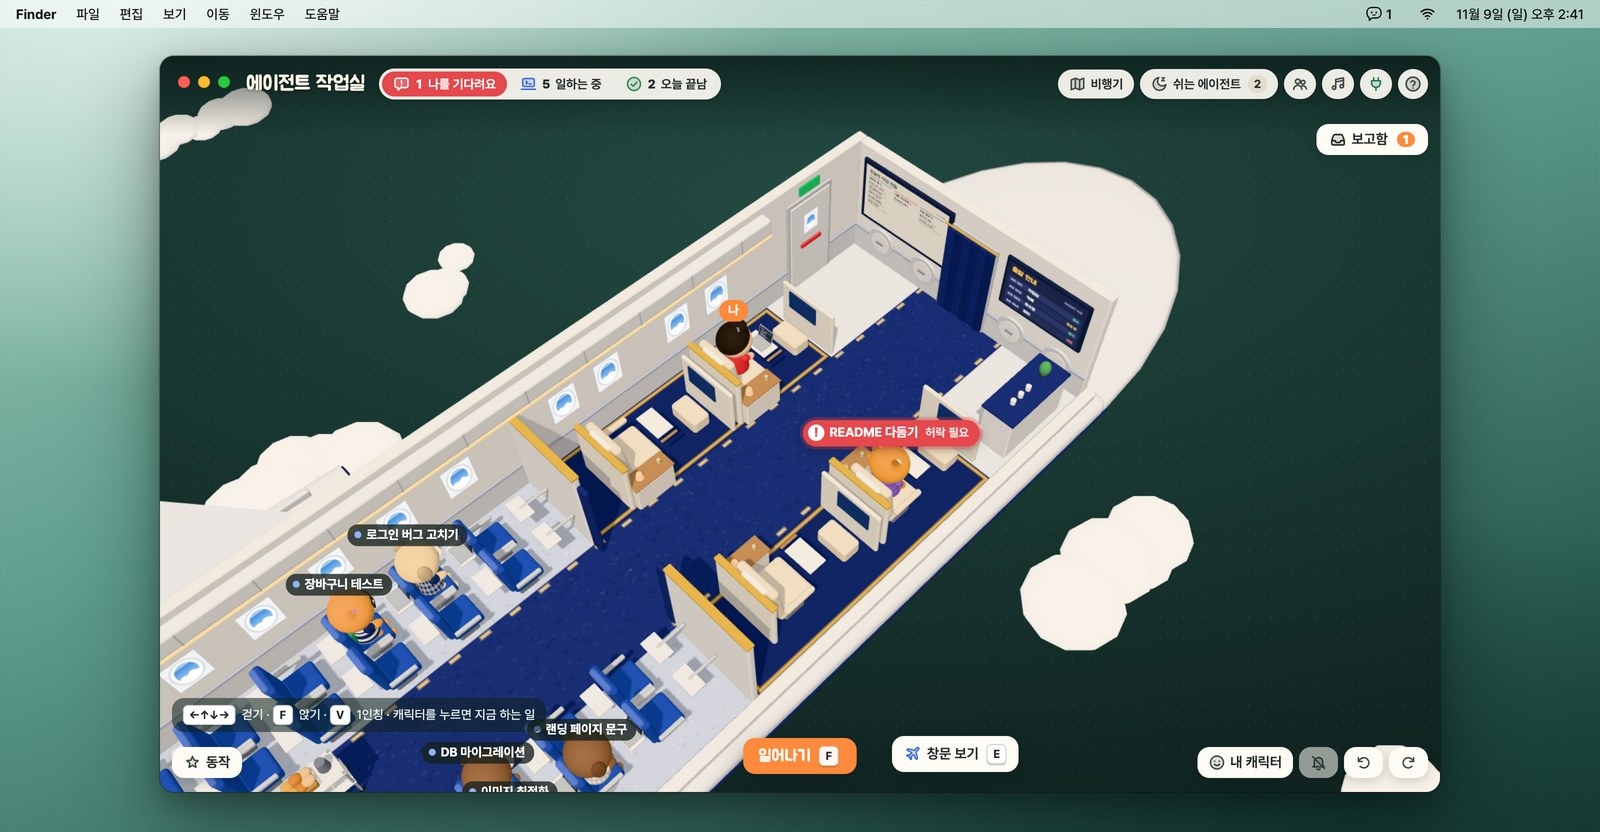
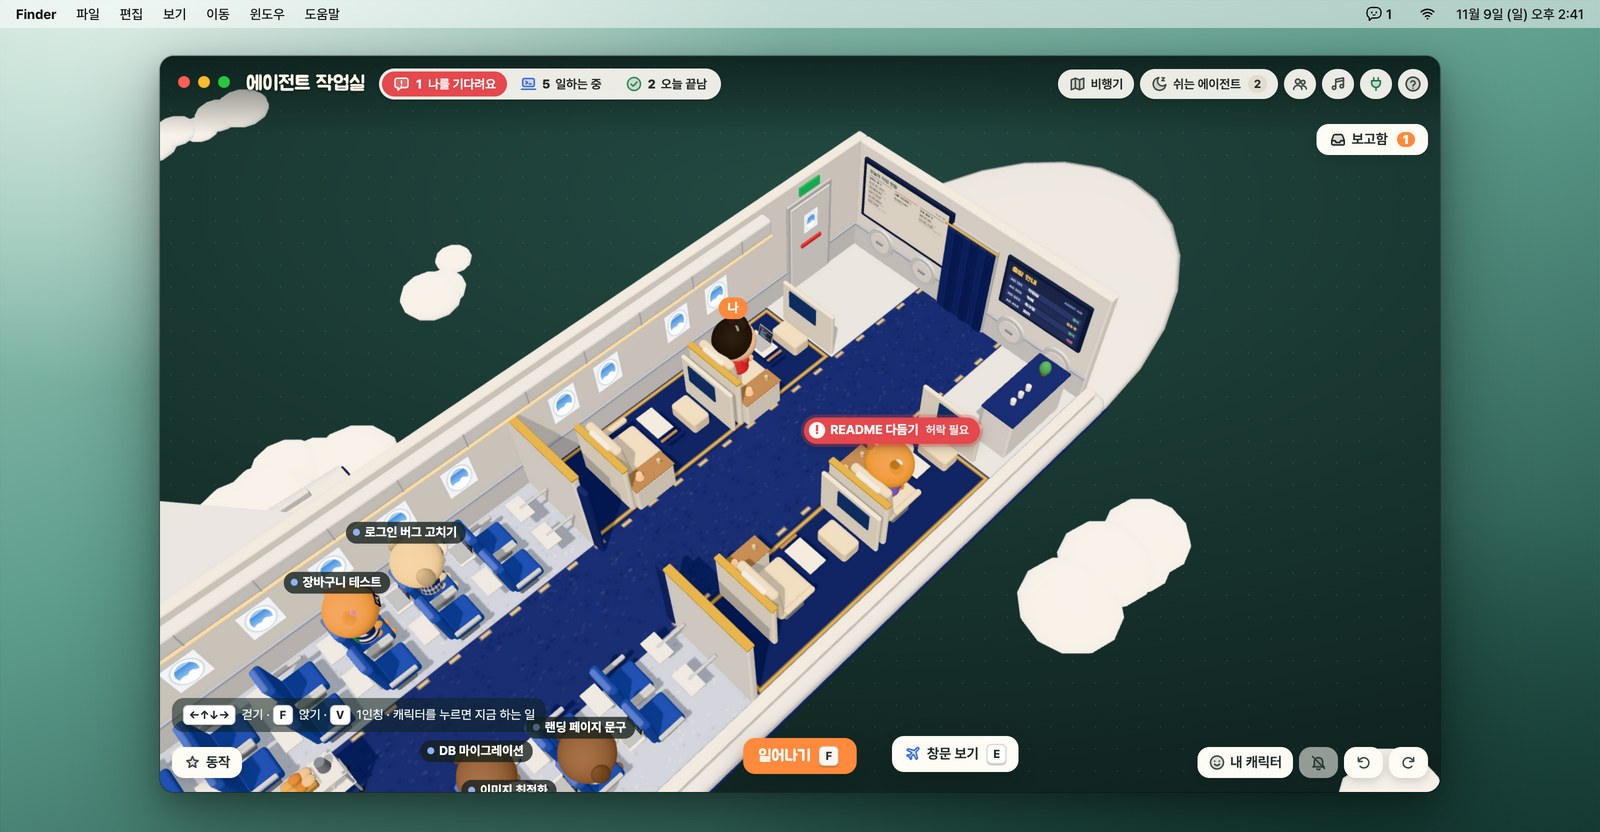
에이전트 작업실 0.4.3: 캐릭터를 2등신 비율로
- 머리를 1.22배로 키우고(머리카락, 귀, 모자, 안경 포함) 몸통, 팔, 몸에 붙는 소품은 줄임
- 눈을 1.18배로 키우고 사이를 넓힘, 볼터치는 조금 아래로
- 위에서 내려다보는 화면에서 고개를 더 듦 (커진 정수리가 얼굴을 가리지 않게)
- 이름표 높이와 얼굴 그림(face.js) 찍는 거리를 커진 머리에 맞춤
- README 그림 갱신

diff --git a/shared/js/avatar.js b/shared/js/avatar.js
@@ -9,6 +9,10 @@ import { drawMark } from './brand.js';
 const PI = Math.PI;
 export const HEAD_Y = 0.86;
 const HEAD_R = 0.3;
+// 2등신 비율: 머리는 키우고 몸은 줄인다. 머리에 붙는 것(머리카락, 귀, 모자, 안경)은 머리와 함께 커진다
+const HEAD_K = 1.22;
+const BODY_S = [0.95, 0.86, 0.946]; // 몸통과 몸에 붙는 것(목도리, 가방, 꼬리)을 같은 비율로 줄인다
+const BODY_Y = 0.012;
 
 const G = {
   head: new THREE.SphereGeometry(HEAD_R, 32, 22),
@@ -153,18 +157,19 @@ function drawMuzzle(g, m, light, nose) {
 // 귀여워 보이는 비율로 그린다: 큰 눈이 얼굴 가운데보다 조금 아래에 넓게 놓이고, 입은 작고, 볼이 발그레하다.
 // (예전에는 눈이 머리 지름의 7%쯤인 작은 점이라 얼굴이 비어 보였다)
 const INK = '#2A2320';
-const EYE_L = 74; // 눈 가운데 (256칸 그림 기준). 안경 자리(EYE_X, EYE_Y)도 여기에 맞춘다
-const EYE_R = 182;
-const EYE_Y = 127;
+const EYE_K = 1.18; // 눈 크기 (큰 머리에 맞춰 눈도 크게)
+const EYE_L = 68; // 눈 가운데 (256칸 그림 기준). 안경 자리(EYE_X, EYE_Y)도 여기에 맞춘다
+const EYE_R = 188;
+const EYE_Y = 124;
 // kind: 'human' 사람 | 'animal' 코와 ㅅ 입을 그리는 동물 | 'eyes' 눈만 (부리, 주둥이는 따로 붙인다). nose 는 코 색
 // eye: 'dot' 까만 눈 | 'white' 흰자위가 있는 또렷한 눈 | 'lid' 눈꺼풀이 반쯤 내려온 눈 (lid 는 눈꺼풀 색)
 function drawFace(g, expr, mode, kind = 'human', nose = '#3A2A26', rim = false, eye = 'dot', lid = '#C9A27A') {
   g.clearRect(0, 0, 256, 256);
   // 볼
   g.fillStyle = 'rgba(255,112,132,.36)';
-  for (const x of [36, 220]) {
+  for (const x of [30, 226]) {
     g.beginPath();
-    g.ellipse(x, 166, 25, 15, 0, 0, PI * 2);
+    g.ellipse(x, 174, 24, 14, 0, 0, PI * 2);
     g.fill();
   }
   const line = rim ? '#FFFFFF' : INK; // 감은 눈, 웃는 눈의 선
@@ -174,6 +179,7 @@ function drawFace(g, expr, mode, kind = 'human', nose = '#3A2A26', rim = false, 
   g.lineWidth = 8;
   // 눈: 세로로 조금 긴 까만 눈에 반짝임 둘
   const dot = (x, y, big = 1) => {
+    big *= EYE_K;
     if (eye !== 'dot') {
       // 흰자위 + 큰 눈동자 + 위 눈꺼풀 선
       const sx = x < 128 ? 1 : -1; // 눈동자는 살짝 안쪽으로
@@ -237,22 +243,22 @@ function drawFace(g, expr, mode, kind = 'human', nose = '#3A2A26', rim = false, 
   };
   const happy = (x, y) => {
     g.beginPath();
-    g.arc(x, y + 12, 17, PI * 1.15, PI * 1.85);
+    g.arc(x, y + 14, 20, PI * 1.15, PI * 1.85);
     g.stroke();
   };
   const closed = (x, y) => {
     g.beginPath();
-    g.arc(x, y - 10, 17, PI * 0.15, PI * 0.85);
+    g.arc(x, y - 12, 20, PI * 0.15, PI * 0.85);
     g.stroke();
   };
   const halfOpen = (x, y) => {
     g.fillStyle = INK;
     g.beginPath();
-    g.ellipse(x, y + 2, 17, 15, 0, 0, PI);
+    g.ellipse(x, y + 2, 20, 18, 0, 0, PI);
     g.fill();
     g.beginPath();
-    g.moveTo(x - 20, y + 1);
-    g.lineTo(x + 20, y + 1);
+    g.moveTo(x - 23, y + 1);
+    g.lineTo(x + 23, y + 1);
     g.stroke();
   };
   const L = EYE_L;
@@ -261,8 +267,8 @@ function drawFace(g, expr, mode, kind = 'human', nose = '#3A2A26', rim = false, 
   if (mode === 'blink') {
     for (const x of [L, Rx]) {
       g.beginPath();
-      g.moveTo(x - 16, EY + 4);
-      g.lineTo(x + 16, EY + 4);
+      g.moveTo(x - 19, EY + 4);
+      g.lineTo(x + 19, EY + 4);
       g.stroke();
     }
   } else if (mode === 'happy') {
@@ -443,8 +449,8 @@ export class Avatar {
     this.shadow = shadow;
 
     this.torso = this.mesh(G.torso, null, this.body);
-    this.torso.position.y = 0.37;
-    this.torso.scale.set(1, 1, 0.92);
+    this.torso.position.y = 0.37 * BODY_S[1] + BODY_Y;
+    this.torso.scale.set(BODY_S[0], BODY_S[1], 0.92 * BODY_S[2]);
 
     this.head = new THREE.Group();
     this.head.position.y = HEAD_Y;
@@ -482,6 +488,8 @@ export class Avatar {
     this.bodyDeco = new THREE.Group();
     this.head.add(this.headDeco);
     this.body.add(this.bodyDeco);
+    this.bodyDeco.scale.set(BODY_S[0], BODY_S[1], BODY_S[2]);
+    this.bodyDeco.position.y = BODY_Y;
     this.decoGeos = [];
 
     this.hitbox = new THREE.Mesh(G.hit, HIT_MAT);
@@ -513,7 +521,8 @@ export class Avatar {
 
   makeArm(side) {
     const pivot = new THREE.Group();
-    pivot.position.set(side * 0.205, 0.53, 0);
+    pivot.position.set(side * 0.205 * BODY_S[0], 0.53 * BODY_S[1] + BODY_Y, 0);
+    pivot.scale.setScalar(0.92);
     this.body.add(pivot);
     const sleeve = this.mesh(G.arm, null, pivot);
     sleeve.position.y = -0.055;
@@ -649,7 +658,7 @@ export class Avatar {
     const lum = new THREE.Color(L.skin).getHSL({}).l;
     this.eyeRim = !!sp && sp !== 'penguin' && lum < 0.45; // 어두운 털이면 눈에 흰 테 (펭귄은 얼굴이 하얗다)
     // 동물은 머리가 옆으로 조금 넓적하다
-    this.head.scale.set(sp ? 1.1 : 1, sp ? 0.97 : 1, sp ? 1.03 : 1);
+    this.head.scale.set((sp ? 1.1 : 1) * HEAD_K, (sp ? 0.97 : 1) * HEAD_K, (sp ? 1.03 : 1) * HEAD_K);
     const paw = sp ? skin : M('#33363B');
     this.footA.material = this.footB.material = paw;
     const acc = M(L.accent);
@@ -1192,7 +1201,7 @@ export class Avatar {
     this.footB.position.set(C.fX, C.fBy, C.fBz);
     // 다리: 옷 밑단 속 엉덩이에서 발까지 잇는다 (걸을 때, 앉을 때 발을 따라간다)
     for (const [leg, foot, sx] of [[this.legA, this.footA, -1], [this.legB, this.footB, 1]]) {
-      _hip.set(sx * 0.085, C.bodyY + 0.24, 0);
+      _hip.set(sx * 0.08, C.bodyY + 0.22, 0);
       _dir.copy(foot.position).sub(_hip);
       const len = _dir.length() || 0.001;
       leg.position.copy(_hip);
@@ -1288,7 +1297,7 @@ export class Avatar {
 
   labelAnchor(v) {
     this.head.getWorldPosition(v);
-    v.y += 0.47;
+    v.y += 0.47 + HEAD_R * (HEAD_K - 1);
     return v;
   }
 

diff --git a/shared/js/face.js b/shared/js/face.js
@@ -40,8 +40,8 @@ export function faceURL(look) {
     av.update(0.016, { t: 0, moving: 0, st: 0, act: '', emote: '', emoteT: 9 });
     av.root.updateMatrixWorld(true);
     av.head.getWorldPosition(_p);
-    cam.position.set(_p.x + 0.25, _p.y + 0.14, _p.z + 2.15);
-    cam.lookAt(_p.x, _p.y + 0.03, _p.z);
+    cam.position.set(_p.x + 0.3, _p.y + 0.17, _p.z + 2.62); // 머리가 커진 만큼 물러나서 찍는다
+    cam.lookAt(_p.x, _p.y + 0.035, _p.z);
     renderer.render(scene, cam);
     const data = renderer.domElement.toDataURL('image/png');
     scene.remove(av.root);

diff --git a/renderer/app.js b/renderer/app.js
@@ -2396,7 +2396,7 @@ function frame(now = performance.now()) {
   const dt = Math.min(0.05, clock.getDelta());
   t += dt;
   // 위에서 내려다볼 때는 캐릭터가 고개를 살짝 들어서 얼굴이 보인다 (1인칭, 창문 보기에서는 그대로)
-  const HEAD_TILT = fpv.on || win.on ? 0 : -0.24;
+  const HEAD_TILT = fpv.on || win.on ? 0 : -0.34; // 머리가 커서 위에서 보면 정수리가 넓다. 그만큼 고개를 더 든다
   updateMe(dt);
   for (const a of agents.values()) {
     if (a.mode === 'walk') stepWalk(a, dt);

diff --git a/README.md b/README.md
@@ -37,7 +37,7 @@
 
 ## 1. 설치하기
 
-1. [Releases](https://github.com/sangjun121/agent-office/releases/latest)에서 `agent-office-0.4.2-arm64.dmg`를 받아요.
+1. [Releases](https://github.com/sangjun121/agent-office/releases/latest)에서 `agent-office-0.4.3-arm64.dmg`를 받아요.
 2. DMG를 열고 **Agent Office**를 **Applications** 폴더로 끌어다 놓아요.
 3. 처음 열면 "Apple에서 확인할 수 없는 개발자" 경고가 떠요. 아직 Apple 공증을 받지 않은 앱이라서 그래요.
    - **시스템 설정 → 개인정보 보호 및 보안**으로 가서 아래쪽의 **그래도 열기**를 누르면 돼요.
@@ -50,7 +50,7 @@
 받은 파일이 릴리스에 올린 파일과 같은지 확인하고 싶다면, 아래 값을 릴리스의 `SHA256SUMS.txt`와 비교해 보세요.
 
 ```sh
-shasum -a 256 agent-office-0.4.2-arm64.dmg
+shasum -a 256 agent-office-0.4.3-arm64.dmg
 ```
 
 > Intel Mac용 파일은 아직 없어요. 필요하면 [직접 빌드하기](#직접-빌드하기)를 참고하세요.
